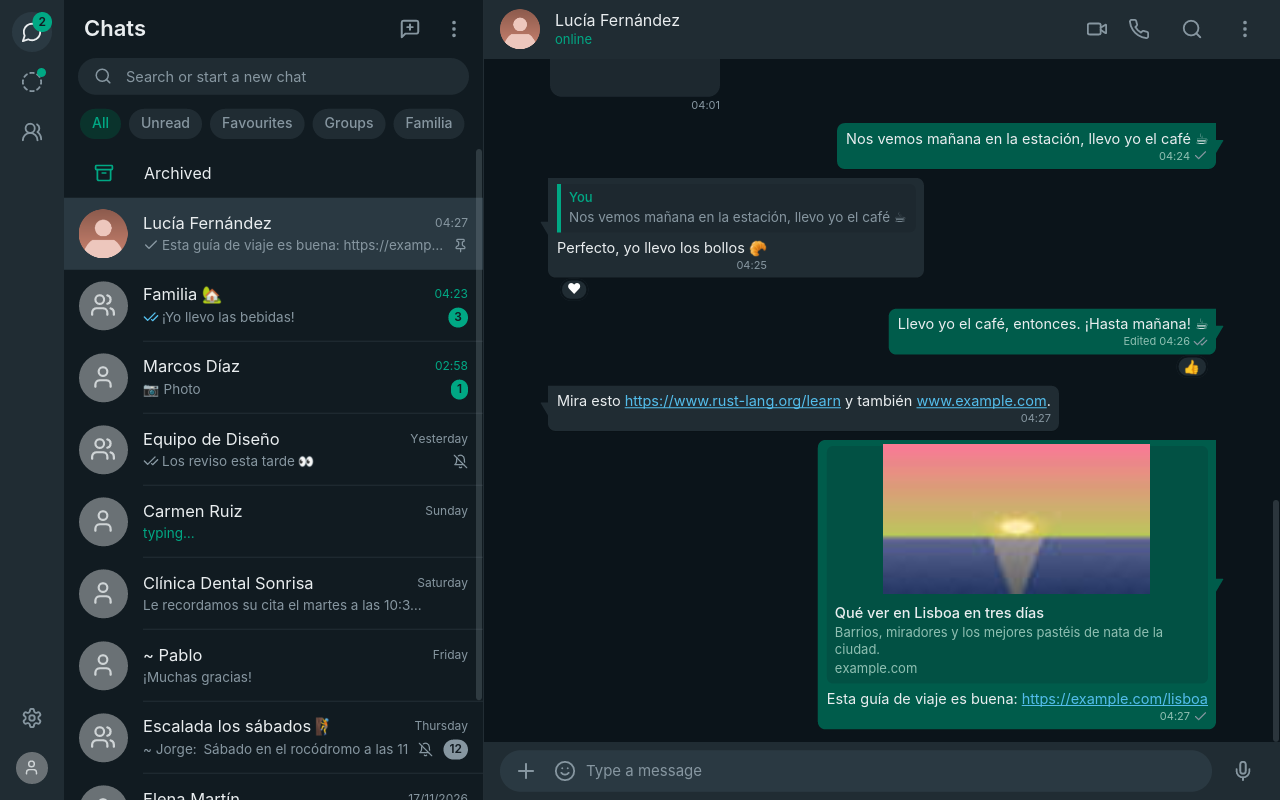
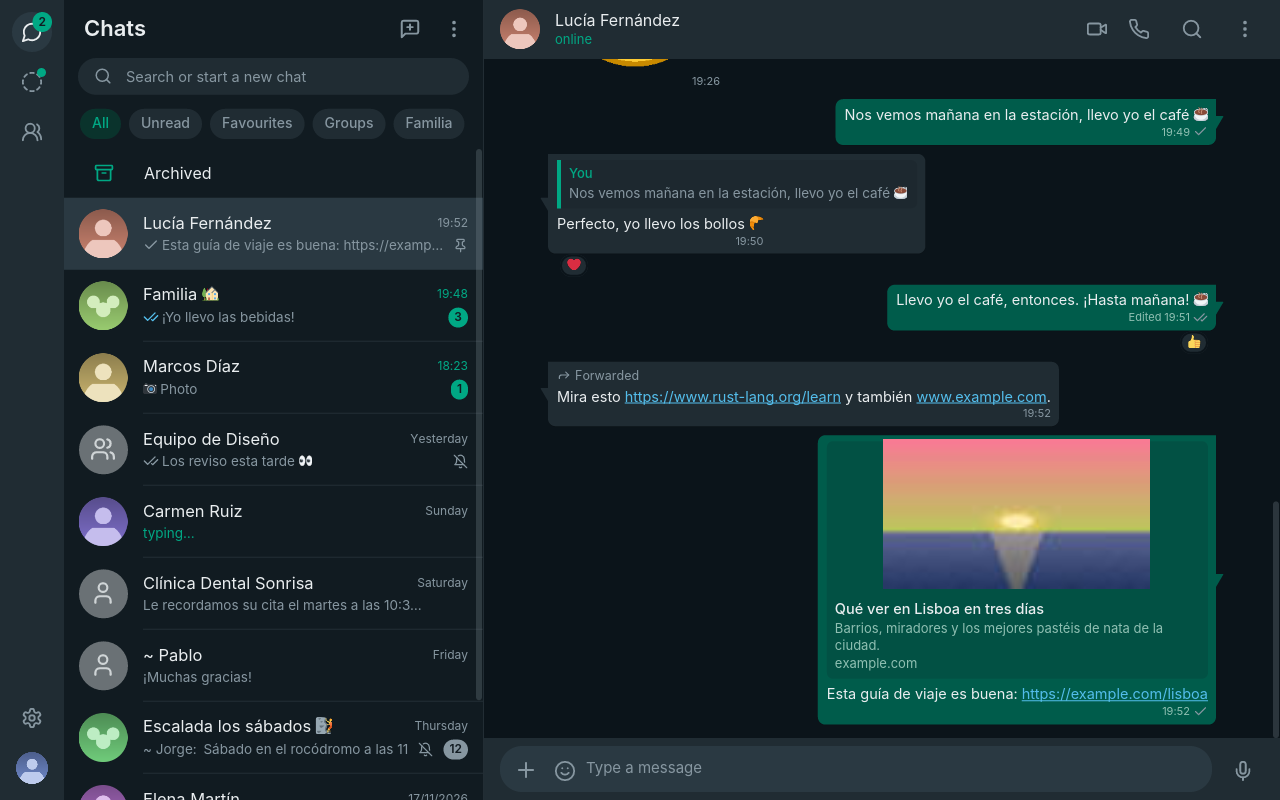
docs: document forwarding and add select / forward screenshots

diff --git a/CLAUDE.md b/CLAUDE.md
@@ -9,7 +9,7 @@ the `net::WaClient` trait. Unofficial: third-party clients can get accounts bann
 - `cargo build` / `cargo build --release` (use `CARGO_BUILD_JOBS=2` on shared hosts)
 - `cargo fmt --check && cargo clippy --all-targets -- -D warnings && cargo test`
 - `cargo run -- --mock` (fake protocol + mock data, no network, no disk writes)
-- Screenshots: `ICED_BACKEND=tiny-skia xvfb-run -a -s "-screen 0 1280x800x24" ./target/debug/ferrochat --screenshot <login|chats|chat|chat-menu|mute|reply|reactions|chat-search|list-search|delete|settings|paste|update-banner|update-settings|emoji|viewer|info|group-info> docs/screenshots/<name>.png`
+- Screenshots: `ICED_BACKEND=tiny-skia xvfb-run -a -s "-screen 0 1280x800x24" ./target/debug/ferrochat --screenshot <login|chats|chat|chat-menu|mute|reply|reactions|chat-search|list-search|delete|select|forward|settings|paste|update-banner|update-settings|emoji|viewer|info|group-info> docs/screenshots/<name>.png`
 - Tray test needs a session bus: `dbus-run-session -- cargo test` (the SNI test is skipped without one).
 - Regenerate fixtures: `cargo test --test gen_fixtures -- --ignored`
 
@@ -127,6 +127,12 @@ Wayland `app_id` / desktop entry id: `dev.ferro.ferrochat` (`packaging/`).
   (COLRv1 Noto draws blank/mono in swash). Picker data: `emojis` crate up to Unicode 17 (`app/emoji.rs`).
 - tiny-skia does not clip images: zoomed / covering pictures must sit UNDER opaque layers (image viewer
   bar) or use `ContentFit::Contain` (info drawer thumbnails).
+- Forwarding (`app/forward.rs`, `ui/forward.rs`): `WaClient::forward` rebuilds the body from the cached
+  `Content` (`convert::build_forward` + the library's `prepare_for_forward`), so media is relayed, not
+  re-uploaded; `Message::forwarded` is the forwarding score (`None` = not forwarded). Copies of one
+  forward get ids from `forward::ordered_ids` (same second, sorted by id) and are sent one after the
+  other. Selection mode covers each row with a click catcher; never send a forward for
+  `!Message::can_forward()`.
 - Mentions: show `ChatList::mention_label` / `render_mentions` (uses `Message::mentions`), never raw
   "@<LID>" text. Previews go through `App::preview`.
 - Info drawer queries (`WaClient::contact_info/group_info/common_groups/is_blocked`) run only when it

diff --git a/docs/protocol.md b/docs/protocol.md
@@ -118,6 +118,13 @@ click jumps to the original, loading the cache around it when needed.
 | Mark as read / unread | `chat_actions().mark_chat_as_read` with the newest message as `messageRange` | optimistic, reverted on failure; reading a chat that was marked unread by hand (here or on the phone, since start-up) also sends `read = true` |
 | Clear chat | `chat_actions().clear_chat(deleteStarred = !keep, deleteMedia = false)` | asks first ("Keep starred messages" ticked by default); sent first, applied here once the phone has it |
 | Delete chat | `chat_actions().delete_chat(deleteMedia = false)` | asks first; sent first, applied once the phone has it; list memberships are left to the phone |
+| Forward | `send_message_with_options` with the body rebuilt from the cached content and passed through `MessageExt::prepare_for_forward` (`convert::build_forward`) | up to 5 chats (1 when "forwarded many times"); each copy is a new message with our own id, shown and cached at once and sent in order. Media is relayed from the same CDN blob (`directPath`, `mediaKey`, hashes; `url` built on `mmg.whatsapp.net`), never re-uploaded. Quote, mentions and `messageSecret` are dropped like the official client. Not offered for deleted, view-once, unsupported, call or media without a key, nor for our own pending / failed messages |
+
+Forwarded mark: `contextInfo.isForwarded` / `forwardingScore` is kept per
+message (cache column `forwarded`, schema 8: the score, NULL = not
+forwarded) and shown as "Forwarded", or "Forwarded many times" with a double
+arrow from score 5 (the library jumps to the 127 sentinel there). A forward
+of a forward carries the source score plus one.
 
 Mentions: `contextInfo.mentionedJid` is kept per message (cache column
 `mentions`, schema 6). An "@<digits>" in the text is shown as the name of

diff --git a/README.md b/README.md
@@ -56,6 +56,10 @@ automatic check off in Settings; it only asks GitHub for the latest release.
 |---|---|---|
 | ![](docs/screenshots/reply.png) | ![](docs/screenshots/reactions.png) | ![](docs/screenshots/chat-search.png) |
 
+| Select messages | Forward |
+|---|---|
+| ![](docs/screenshots/select.png) | ![](docs/screenshots/forward.png) |
+
 ## Features
 
 * QR-code pairing as a linked device (codes refresh automatically, reload
@@ -73,6 +77,8 @@ automatic check off in Settings; it only asks GitHub for the latest release.
 * Replies (quoted message, click to jump, reply bar), reactions (badge, who
   reacted, hover picker, send and remove), edit (15 min) and delete for me /
   for everyone, "Edited" marker.
+* Forward messages to up to five chats at once, from the message menu or by
+  selecting several messages; "Forwarded" / "Forwarded many times" marks.
 * Typing and recording indicators, online / last seen, and our own throttled
   "typing…" presence.
 * Search in the chat list (chats and cached messages) and inside a chat, with
